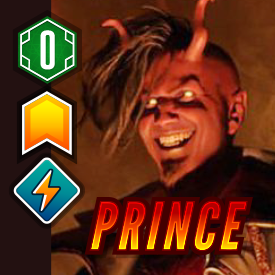
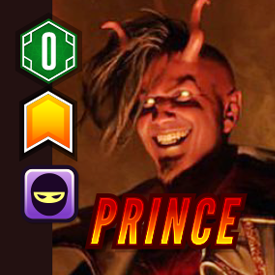
Tweak Devils: rework the gleeful prince

diff --git a/server/classes/Battle.js b/server/classes/Battle.js
@@ -6,7 +6,7 @@ class Battle {
     data = {
         title : 'Resolving pre-combat effects', // {string} text to display in the combat UI title bar
         factionIndex : 0, // {number} the index of the faction currently resolving their attacks
-        attackBonus : null, // {number} global attack bonus applied to all units in this battle
+        attackBonus : 0, // {number} global attack bonus applied to all units in this battle
         areaName : null, // {string} the name of the area this battle is taking place in
         currentUnit : null, // {Unit} the unit currently resolving its attacks
         factions : [], // {array} the factions participating in this combat
@@ -79,8 +79,18 @@ class Battle {
      * resolve battle triggers
      */
     async resolveBattleTriggers( triggerType ){
+
+        // check for unit based modifications
+        let units = this.area.units();
+        for( let unit of units ){
+            let method = unit[triggerType];
+            if( method ) await this.game().factions[unit.faction][method]( this );
+        }
+
+        // check for faction based modifications
         for( let faction of Object.values( this.game().factions ) ){
-            if( faction.triggers[triggerType] ) await faction[ faction.triggers[triggerType] ]( this );
+            let method = faction.triggers[triggerType];
+            if( method ) await faction[method]( this );
         }
 
         if( triggerType === 'onBeforeBattle' ) this.data.preCombatEffects = false;
@@ -240,7 +250,7 @@ class Battle {
             area : area,
             attacks : unit.attack,
             unit : unit,
-            attackBonus : this.options.attackBonus,
+            attackBonus : this.data.attackBonus,
             inCombat : true,
             controllingFaction : controllingFaction,
             onCombatDeath : this.options.onCombatDeath,

diff --git a/server/classes/factions/Devils.js b/server/classes/factions/Devils.js
@@ -56,10 +56,12 @@ class Devils extends Faction {
                 seeking : false,
                 cost: 0,
                 killed : false,
-                skilled : true,
-                ready : false,
+                hidden: true,
                 onDeploy: 'deployCheckIfDelighted',
-                onSkill: 'princeLootCards',
+                onBeforeBattle: 'increaseCombatAttack',
+                //onSkill: 'princeLootCards',
+                //skilled : true,
+                //ready : false,
                 dontUnflipAutomatically: true,
                 selected : false,
                 hitsAssigned : 0,
@@ -113,6 +115,10 @@ class Devils extends Faction {
         this.message( `Have achieved chaos level ${this.data.chaos}${levelText}` );
     }
 
+    increaseCombatAttack( combat ){
+        combat.data.attackBonus += 2;
+    }
+
     /**
      * Handle our Dr T attack trigger
      *
@@ -129,11 +135,11 @@ class Devils extends Faction {
         if(unit.flipped) return;
 
         unit.flipped = true;
-        unit.seeking = true;
-        unit.attack = [6,6,6];
+        //unit.seeking = true;
+        //unit.attack = [6,6,6];
         unit.influence = 3;
 
-        if( this.game().combat ) this.game().combat.addUnitToCombat( unit );
+        //if( this.game().combat ) this.game().combat.addUnitToCombat( unit );
 
         this.message("The Gleeful Prince becomes delighted" );
     }

diff --git a/server/classes/factions/mixins/attacksWithUnits.js b/server/classes/factions/mixins/attacksWithUnits.js
@@ -347,12 +347,14 @@ let obj = {
     getToHitNumber( args, victim ){
         // we start with our attack value
         let toHit = args.attacks[0];
+        console.log("getToHitNumber start", toHit, args);
 
         // deadly attacks can't be modified, so just return our attack value
         // if( args.deadly ) return toHit;
 
         // subtract any attack bonuses set by our args
         if( args.attackBonus ) toHit -= args.attackBonus;
+        console.log("getToHitNumber after args.attackBonus", toHit);
 
         // if we are attacking with a unit and our faction has a global attack bonus, apply it
         if( args.unit && this.data.attackBonus ) toHit -= this.data.attackBonus;
@@ -370,6 +372,8 @@ let obj = {
         // finally if our target faction has a defense bonus apply that here
         let defenseBonus = _.calculateDefenseBonus( this.data, victim.data, args.area, { debug : true, unit : args.unit } );
         if( defenseBonus )  toHit += defenseBonus;
+
+        console.log("getToHitNumber final", toHit);
 
         return toHit;
     },
